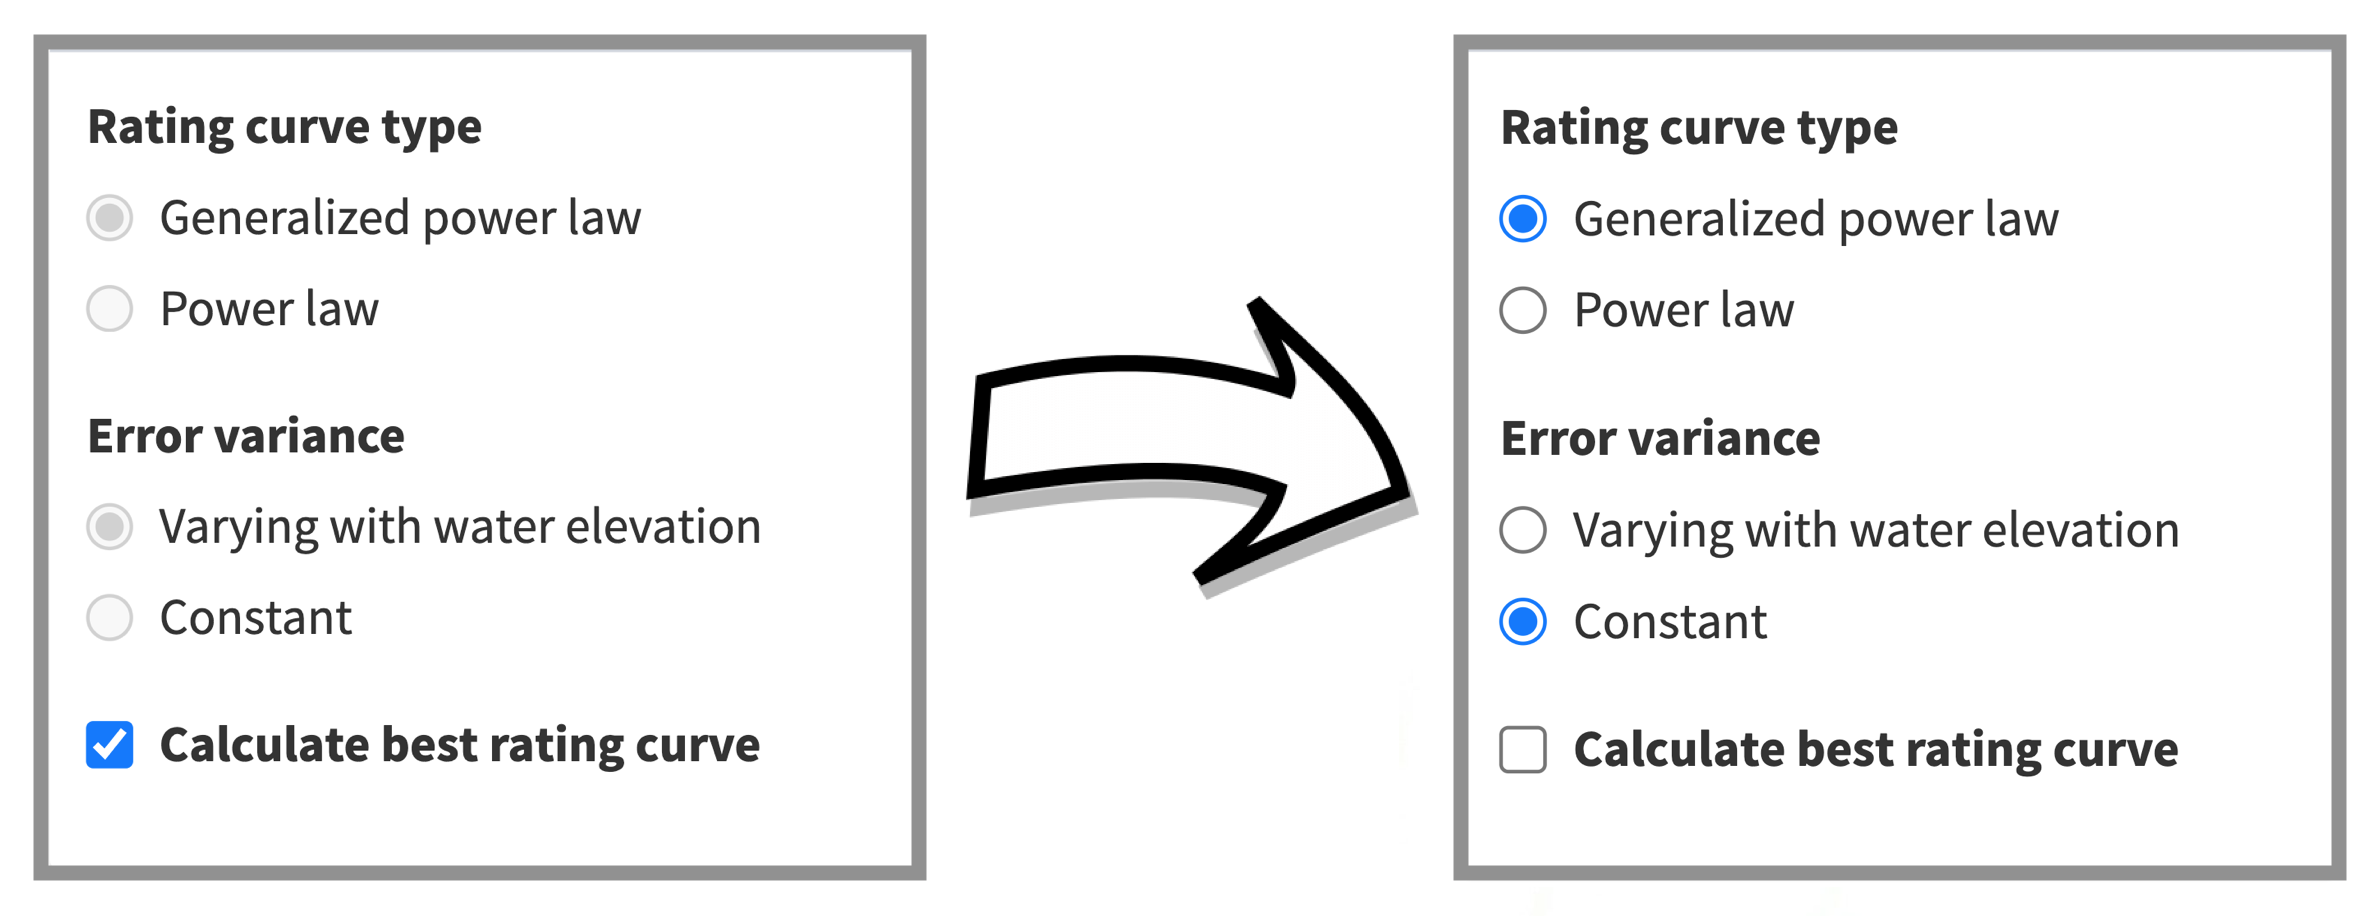
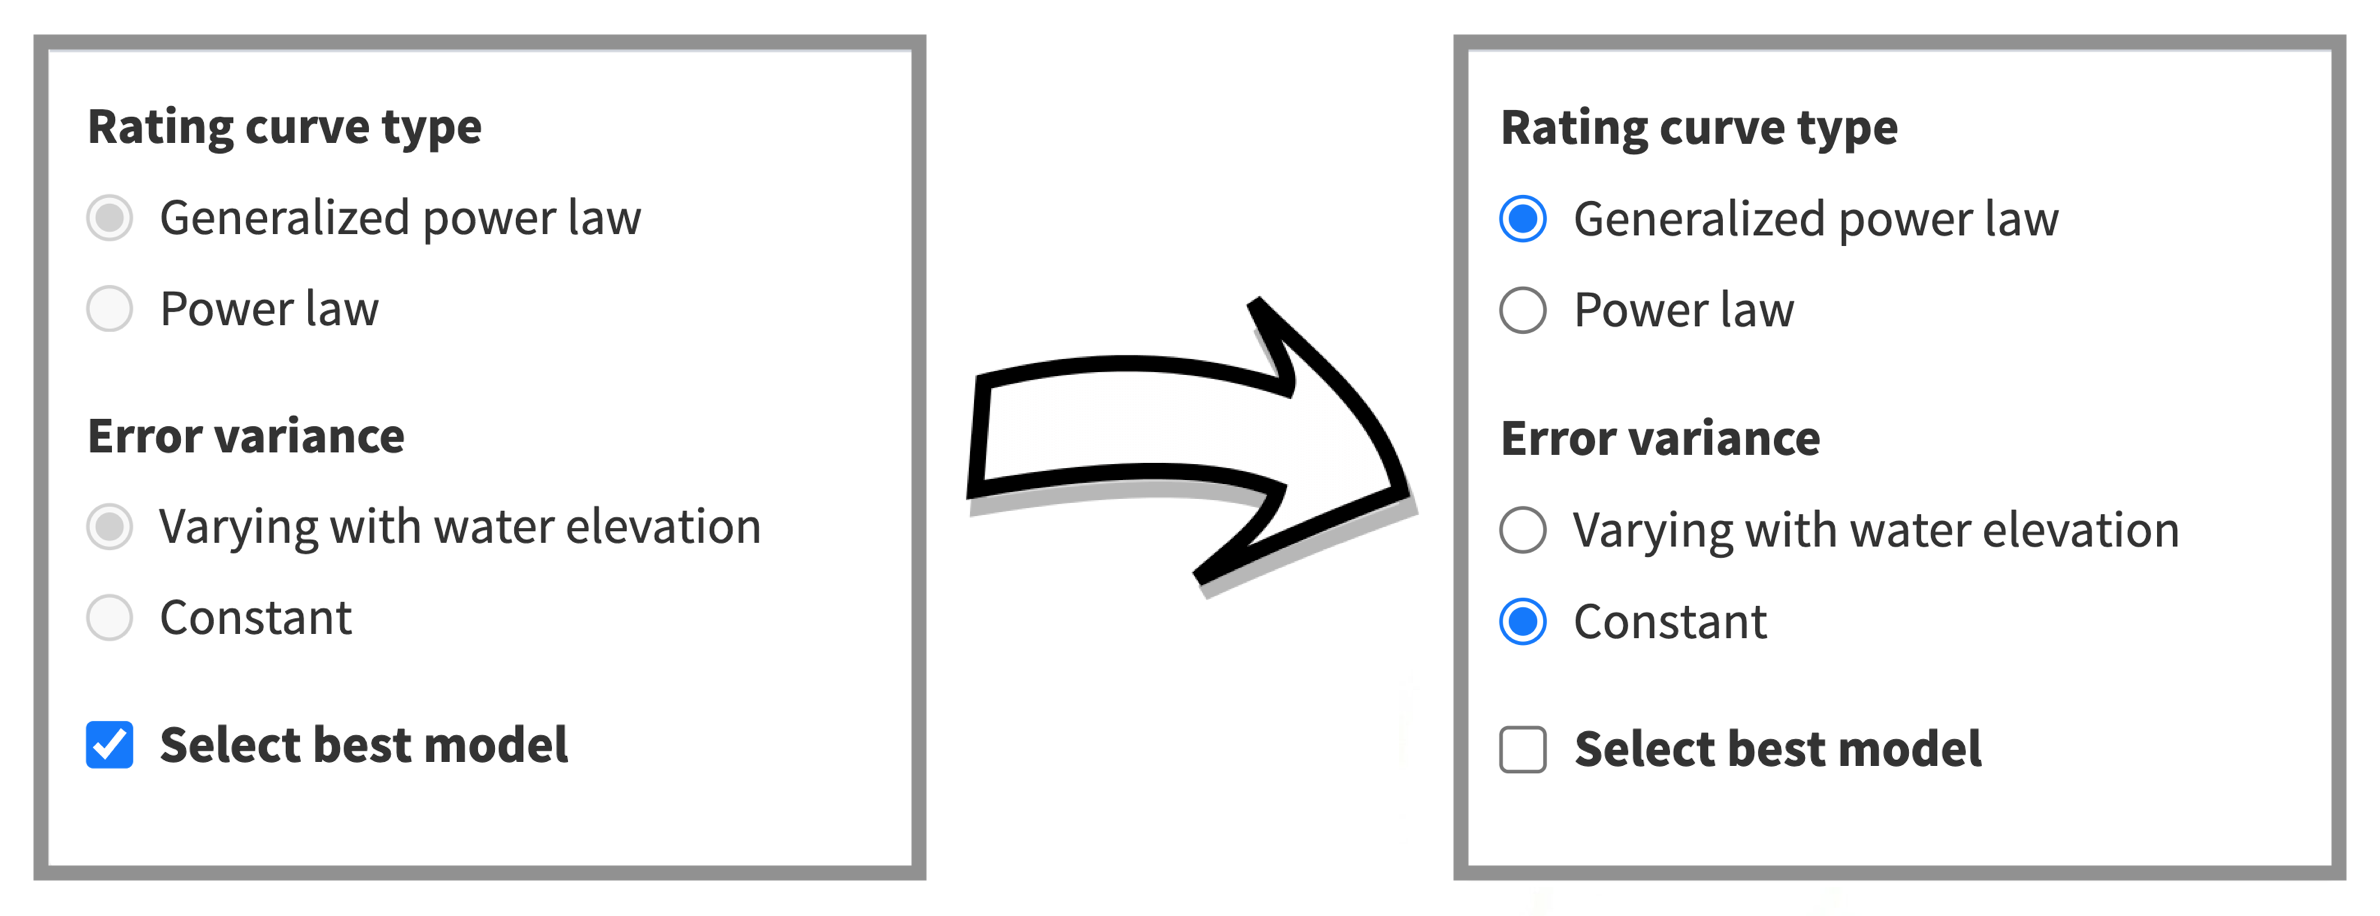
changing name of tournament feature in app from "Calculate best rating curve" to "Select best model"

Changed region(s): [[0.6529, 0.7948, 0.9328, 0.8559], [0.0622, 0.7948, 0.342, 0.8559]]

diff --git a/Instructions.md b/Instructions.md
@@ -31,9 +31,9 @@ Once the data is uploaded, then the Rating Curve Model can be specified. There a
 
 <img src="www/rc_spec.png" title="plot of chunk unnamed-chunk-4" alt="plot of chunk unnamed-chunk-4" width="275px" style="display: block; margin: auto;" />
 
-If you are not sure which model specification is appropriate for your data, then you can select the **Calculate best rating curve** option. If this option is chosen, then the application will fit all model versions, compare their predictive performance, and select the appropriate model for your data. If a simple model does just as good as a more complex one, then the simpler model is chosen. However, if a more complex model results in a more appropriate rating curve, then a more complex model is selected. This way, you will always get a decent rating curve, only adding complexity when it is really needed.
+If you are not sure which model specification is appropriate for your data, then you can select the **Select best model** option. If this option is chosen, then the application will fit all model versions, compare their predictive performance, and select the appropriate model for your data. If a simple model does just as good as a more complex one, then the simpler model is chosen. However, if a more complex model results in a more appropriate rating curve, then a more complex model is selected. This way, you will always get a decent rating curve, only adding complexity when it is really needed.
 
-If the **Calculate best rating curve** option is selected, then the best model is displayed in the **Rating curve type** and **Error variance** buttons. For example, if we select **Calculate best rating curve** for the test dataset that comes with the application, we see that we can no longer change the model settings; see left frame in the figure below. Then, after creating the rating curve, we can read of the blued buttons which model was chosen. In our case, it is the generalized power-law model, in which the error variance is modeled as a constant; see right frame in the figure below.
+If the **Select best model** option is selected, then the best model is displayed in the **Rating curve type** and **Error variance** buttons. For example, if we select **Select best model** for the test dataset that comes with the application, we see that we can no longer change the model settings; see left frame in the figure below. Then, after creating the rating curve, we can read of the blued buttons which model was chosen. In our case, it is the generalized power-law model, in which the error variance is modeled as a constant; see right frame in the figure below.
 
 <img src="www/tour_results.png" title="plot of chunk unnamed-chunk-5" alt="plot of chunk unnamed-chunk-5" width="800px" style="display: block; margin: auto;" />
 
